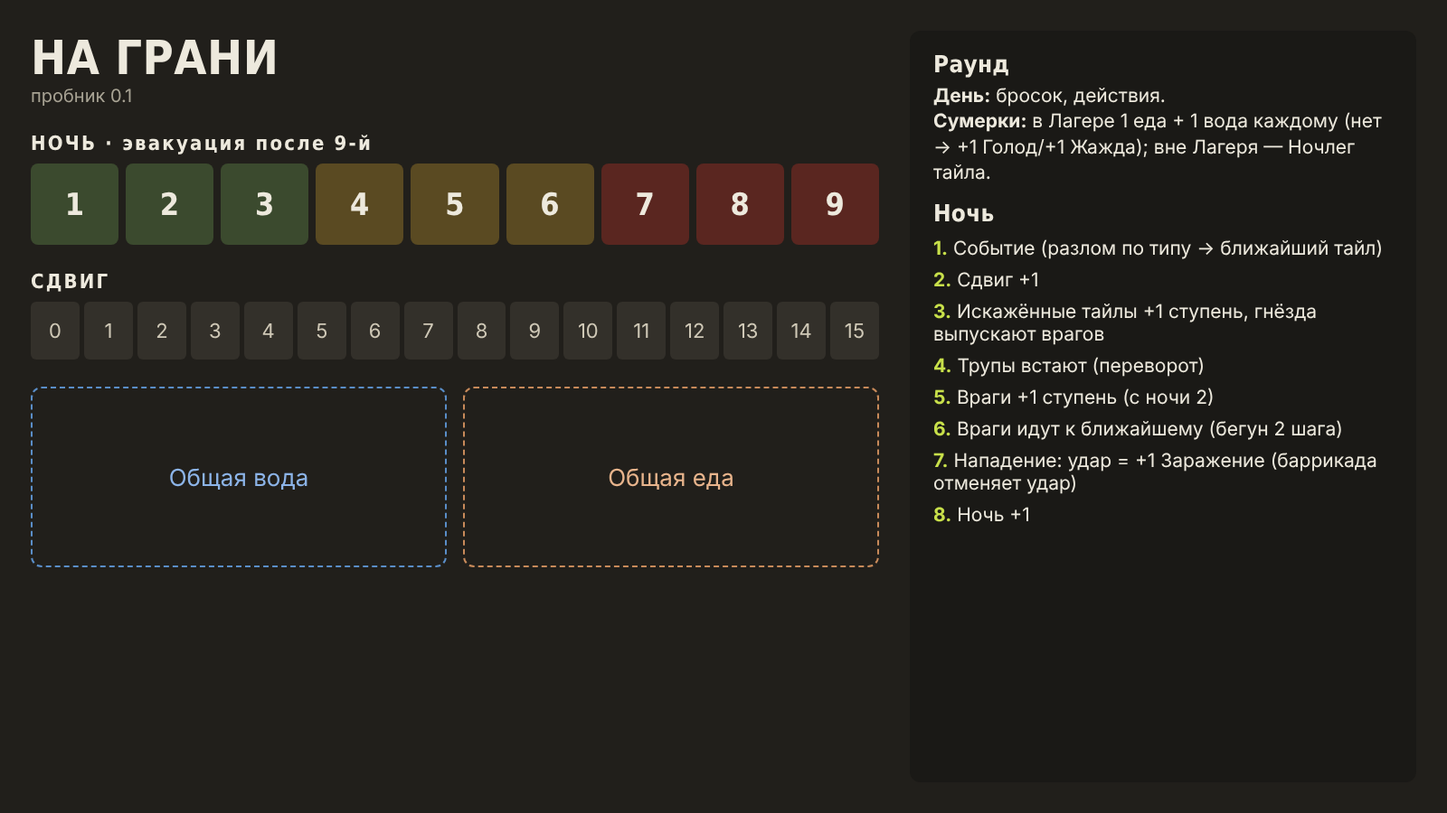
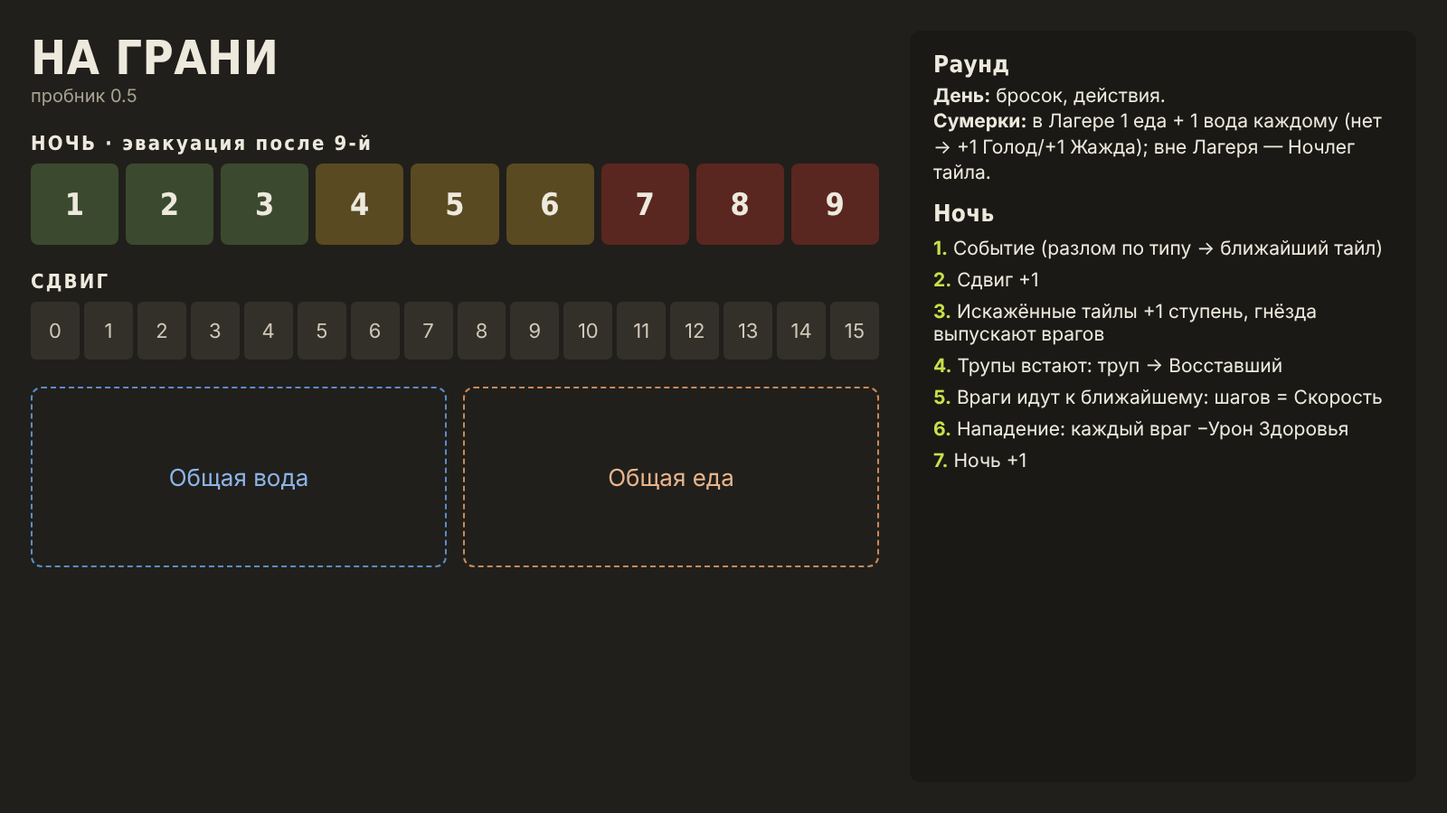
Пробник 0.5: решения 22 октября
Здоровье и Фокус вместо Заражения; три отдельных врага с Защитой, Живучестью, Уроном и Скоростью;
убраны Разведка, Баррикада, Отчаянно и эволюция врагов; «Добить труп»; Отдых на весь День.
Новый планшет с пятью маркерами, общее поле, жетоны, тексты тайлов и событий, правила.

Claude-Session: https://claude.ai/code/session_01XF1YZoP7YAeqvRnxsWetgh

Changed region(s): [[0.625, 0.4356, 0.9688, 0.6533]]

diff --git a/build/data.py b/build/data.py
@@ -1,5 +1,5 @@
 # -*- coding: utf-8 -*-
-# Данные пробника «На грани» v0.1 (совпадают с базами в Notion)
+# Данные пробника «На грани» v0.5 (решения 22 октября: Здоровье и Фокус вместо Заражения)
 
 # (№, название, квартал, открытые края, обыск, лут, запас, угроза, ночлег, эффект ночлега,
 #  искажение, искажённое название, I, II, III)
@@ -7,22 +7,22 @@ TILES = [
     (0, "Лагерь", "Старт", "NESW", None, "—", 0, 0, "Лагерь", "еда и вода из общего запаса",
      None, "Лагерь", None, None, None),
     (1, "Продуктовый магазин", "Окраина", "NES", 3, "Припасы", 3, 1, "Укрытие", "−1 Голод",
-     "Заросли", "Гнилые прилавки", "обыск даёт +1 Заражение", "вход только кубиком 3+",
-     "ночью +1 Заражение всем на соседних тайлах"),
+     "Заросли", "Гнилые прилавки", "обыск: −1 Здоровье (гниль)", "вход только кубиком 3+",
+     "ночью −1 Здоровье всем на соседних тайлах"),
     (2, "Аптека на углу", "Окраина", "NE", 3, "Медицина", 3, 1, "Укрытие", "−1 Жажда",
-     "Туман", "Аптека в тумане", "вход: +1 Заражение", "нельзя разведывать отсюда, обыск 6",
+     "Туман", "Аптека в тумане", "вход: −1 Фокус", "обыск только кубиком 6",
      "становится гнездом: ночью выпускает ходячего"),
     (3, "Панельный дом", "Окраина", "NESW", 2, "Припасы", 4, 1, "Укрытие", "−1 Голод",
      "Эхо", "Дом, где кричат", "ночёвка здесь: +1 Изменение", "ночью +1 Изменение соседям",
      "вход: +1 Изменение"),
     (4, "Заправка", "Окраина", "NESW", 3, "Материалы", 3, 1, "Открытое", "+1 Голод, +1 Жажда",
      "Аномалия", "Мёртвая заправка", "при входе сбрось технику",
-     "каждое действие здесь: перебрось один кубик", "закончил День здесь: +2 Заражение"),
+     "каждое действие здесь: перебрось один кубик", "закончил День здесь: +2 Изменение"),
     (5, "Частные дома", "Окраина", "NSW", 3, "Припасы", 3, 0, "Укрытие", "−1 Жажда (колодец)",
-     "Заросли", "Заросшие дворы", "вход только кубиком 3+", "ночёвка: +1 Заражение",
+     "Заросли", "Заросшие дворы", "вход только кубиком 3+", "ночёвка: −1 Здоровье",
      "каждую ночь заросли переходят на соседний тайл"),
     (6, "Перекрёсток", "Окраина", "NESW", 4, "любой ресурс", 1, 2, "Открытое", "+1 Голод, +1 Жажда",
-     "Туман", "Слепой перекрёсток", "нельзя разведывать отсюда", "вход всегда с засадой",
+     "Туман", "Слепой перекрёсток", "уйти отсюда можно только кубиком 3+", "вход всегда с засадой",
      "туман ползёт на соседний тайл"),
     (7, "Парк", "Окраина", "NESW", 4, "Припасы (вода)", 2, 1, "Открытое", "+1 Голод, +1 Жажда",
      "Гнездо", "Парк-гнездо", "ночью выпускает ходячего", "ночью выпускает бегуна",
@@ -38,7 +38,7 @@ TILES = [
      "ночью выпускает бронированного"),
     (11, "Лаборатория", "Промзона", "SW", 5, "Редкое (мутаген)", 2, 2, "Укрытие", "без восстановления",
      "Аномалия", "Лаборатория-разлом", "техника на тайле ломается",
-     "обыск даёт мутаген наверняка, +2 Заражение", "прыжок на любой аномальный тайл"),
+     "обыск даёт мутаген наверняка, +1 Изменение", "прыжок на любой аномальный тайл"),
     (12, "Трамвайное депо", "Промзона", "NESW", 3, "Техника", 3, 1, "Открытое", "+1 Голод, +1 Жажда",
      "Эхо", "Депо голосов", "ночёвка здесь: +1 Изменение", "ночью враги с соседних тайлов идут сюда",
      "вход: +1 Изменение"),
@@ -46,18 +46,18 @@ TILES = [
      "Гнездо", "Котёл", "ночью выпускает ходячего", "пар: ночёвка Опасная",
      "ночью бегун, соседям +1 Жажда"),
     (14, "Свалка", "Промзона", "NEW", 2, "Материалы", 5, 2, "Открытое", "+1 Голод, +1 Жажда",
-     "Заросли", "Ржавые лозы", "обыск: +1 Заражение", "вход только кубиком 3+",
+     "Заросли", "Ржавые лозы", "обыск: −1 Здоровье", "вход только кубиком 3+",
      "заросли переходят на соседний тайл"),
     (15, "Водонапорная башня", "Промзона", "S", 4, "Припасы (вода)", 2, 0, "Укрытие", "−2 Жажда",
-     "Заросли", "Гнилая вода", "вода отсюда: +1 Заражение", "вход только кубиком 3+",
+     "Заросли", "Гнилая вода", "вода отсюда: −1 Здоровье", "вход только кубиком 3+",
      "вода больше не добывается"),
-    (16, "Подстанция", "Промзона", "NES", 4, "Техника ×2", 3, 1, "Опасное", "+1 Голод, +1 Жажда, +1 Заражение",
-     "Аномалия", "Узел", "техника на тайле ломается", "вход: +1 Заражение",
+    (16, "Подстанция", "Промзона", "NES", 4, "Техника ×2", 3, 1, "Опасное", "+1 Голод, +1 Жажда, −1 Здоровье",
+     "Аномалия", "Узел", "техника на тайле ломается", "вход: −1 Здоровье",
      "все аномальные тайлы связаны через этот"),
     (17, "Химзавод", "Промзона", "EW", 5, "Медицина ×2", 3, 2, "Опасное",
-     "+1 Голод, +1 Жажда, +1 Заражение",
-     "Туман", "Кислотный туман", "вход: +1 Заражение", "враги здесь бьют и соседние тайлы",
-     "туман ползёт, +1 Заражение"),
+     "+1 Голод, +1 Жажда, −1 Здоровье",
+     "Туман", "Кислотный туман", "вход: −1 Здоровье", "враги здесь бьют и соседние тайлы",
+     "туман ползёт, соседям −1 Здоровье"),
     (18, "КПП завода", "Промзона", "NESW", 3, "Техника", 2, 1, "Укрытие", "без восстановления",
      "Эхо", "Мёртвый эфир", "раз за День: +1 Изменение, посмотри верх колоды событий",
      "ночёвка: +1 Изменение", "+1 Изменение всем в радиусе 1"),
@@ -81,13 +81,13 @@ EVENTS = [
     (10, "Раскол земли", "Средние", ["Аномалия"], "разлом; Сдвиг +1", "—", False),
     (11, "Чужие следы", "Средние", [], "с каждого Укрытия на карте снимается 1 запас", "—", False),
     (12, "Голодный город", "Средние", [], "враги в 2 тайлах от Лагеря делают шаг к Лагерю", "все +1 Голод", False),
-    (13, "Споры в воздухе", "Средние", ["Заросли"], "разлом", "все на искажённых тайлах +2 Заражение", False),
+    (13, "Споры в воздухе", "Средние", ["Заросли"], "разлом", "все на искажённых тайлах +1 Изменение", False),
     (14, "Раненый незнакомец", "Средние", [], "—",
      "взять в Лагерь (−2 еды, следующей ночью вытяни «Последствие») или оставить (+1 Изменение всем)", True),
     (15, "Гнёзда просыпаются", "Поздние", ["Гнездо"], "разлом; все Гнёзда сразу выпускают по врагу", "—", False),
     (16, "Долгая ночь", "Поздние", [], "вытяни ещё одну карту события", "все +1 Голод", False),
     (17, "Эхо", "Поздние", ["Эхо"], "разлом", "все +1 Изменение", False),
-    (18, "Волна", "Поздние", [], "все враги поднимаются на ступень ещё раз", "—", False),
+    (18, "Волна", "Поздние", [], "на каждый тайл, где уже есть враг, +1 ходячий", "—", False),
     (19, "Тишина перед бурей", "Поздние", [], "ничего", "следующей ночью вытяни две карты", False),
     (20, "Ночь без сна", "Поздние", [], "—",
      "все +1 Голод; кто ночует один, +2 Изменение", False),
@@ -95,7 +95,7 @@ EVENTS = [
     (22, "Он был помощником", "Последствия", [], "—",
      "незнакомец остаётся: раз за День игрок в Лагере может взять у него кубик со значением 4", False),
     (23, "Он был вором", "Последствия", [], "—", "ушёл ночью: общий запас −2 еды и −2 воды", False),
-    (24, "Он был заражён", "Последствия", [], "—", "все в Лагере +2 Заражение; незнакомец уходит", False),
+    (24, "Он был заражён", "Последствия", [], "—", "все в Лагере −2 Здоровье; незнакомец уходит", False),
     (25, "Он был мутантом", "Последствия", [], "встаёт бегуном прямо в Лагере и нападает первым", "—", False),
 ]
 
@@ -105,9 +105,9 @@ SRYV = [
     ("Привязанность", "человек", "Тайно запиши одного выжившего. Он должен спастись, даже если ты погибнешь."),
     ("Скопидом", "человек", "К эвакуации у тебя лично должно быть больше еды, чем в общем запасе."),
     ("Искупление", "человек", "Погибнуть ночью на одном тайле с другим выжившим, приняв удары на себя."),
-    ("Голод", "мутант", "Разделать хотя бы один труп выжившего. Спасаться не обязательно."),
+    ("Голод", "мутант", "Съесть труп выжившего: «Добить труп» на его тайле. Спасаться не обязательно."),
     ("Ассимиляция", "мутант", "Использовать мутаген 3 раза за игру (считая уже использованный)."),
-    ("Носитель", "мутант", "Спастись нераскрытым. Если удалось — всем спасшимся +3 Заражение в эпилоге."),
+    ("Носитель", "мутант", "Спастись нераскрытым. Если удалось — всем спасшимся +3 Изменение в эпилоге."),
     ("Зов разлома", "мутант", "В конце 9-й ночи стоять на искажённом тайле ступени III."),
     ("Мост", "мутант", "Открыто показать эту карту и спастись вместе с хотя бы одним выжившим."),
 ]

diff --git a/build/render.py b/build/render.py
@@ -68,7 +68,7 @@ def tile_front(t):
     if n == 0:
         body = (f"<div class='h' style='font-size:56px;text-align:center;margin-top:150px'>ЛАГЕРЬ</div>"
                 f"<div style='text-align:center;font-size:22px;margin-top:14px' class='muted'>спортзал школы</div>"
-                f"<div style='text-align:center;font-size:20px;margin-top:60px;padding:0 70px;line-height:1.35'>Сумерки: еда и вода<br>из общего запаса.<br>Баррикады отменяют удары.</div>")
+                f"<div style='text-align:center;font-size:20px;margin-top:60px;padding:0 70px;line-height:1.35'>Сумерки: еда и вода<br>из общего запаса.<br>После 9-й ночи —<br>эвакуация отсюда.</div>")
     else:
         dcol = DISTORTION_COLOR[dist]
         body = f"""
@@ -174,36 +174,40 @@ def token(label, sub, bg, fg="#EDE9DD", ring="#000"):
     return f"""<div style='position:absolute;inset:0;background:{bg};border-radius:28px;border:8px solid {ring}'></div>
       <div style='position:absolute;inset:0;display:flex;flex-direction:column;align-items:center;justify-content:center;color:{fg}'>
       <div class='h' style='font-size:{34 if len(label) < 10 else 26}px;text-align:center'>{e(label)}</div>
-      <div style='font-size:22px;margin-top:6px;opacity:.85'>{e(sub)}</div></div>"""
-TOK_FRONT = [token("Ходячий", "бой 2+ · удар 1", "#5A6B4A"), token("Бегун", "бой 4+ · удар 1 · 2 шага", "#8A6A2E"),
-             token("Броня", "бой 6 · удар 2", "#7A2E24"), token("Труп", "встанет ночью", "#4A4640", ring="#2a2826")]
-TOK_BACK = [token("Бегун", "бой 4+ · удар 1 · 2 шага", "#8A6A2E"), token("Броня", "бой 6 · удар 2", "#7A2E24"),
-            token("Броня", "бой 6 · удар 2", "#7A2E24"), token("Восставший", "бой 2+ · удар 1", "#3C2A44", ring="#A88BE0")]
+      <div style='font-size:24px;margin-top:8px;opacity:.9;white-space:pre-line;text-align:center;line-height:1.3'>{e(sub)}</div></div>"""
+TOK_FRONT = [token("Ходячий", "Защ 2 · Жив 1\nУрон 1 · Скор 1", "#5A6B4A"),
+             token("Бегун", "Защ 4 · Жив 1\nУрон 1 · Скор 2", "#8A6A2E"),
+             token("Бронированный", "Защ 6 · Жив 3\nУрон 2 · Скор 1", "#7A2E24"),
+             token("Восставший", "Защ 2 · Жив 1\nУрон 1 · Скор 1", "#3C2A44", ring="#A88BE0")]
+TOK_BACK = [token("Труп", "ночью встанет", "#4A4640", ring="#2a2826") for _ in range(4)]
 
 # ---------- планшеты ----------
 def player_board():
-    W, H = 1600, 590
-    scales = ["Голод", "Жажда", "Заражение"]
-    over = {"Голод": "в след. День на 2 кубика меньше", "Жажда": "пропускаешь след. День",
-            "Заражение": "шрам, шкала падает до 2"}
+    W, H = 1600, 660
+    scales = ["Голод", "Жажда", "Здоровье", "Фокус"]
+    over = {"Голод": "6-е: в след. День на 2 кубика меньше", "Жажда": "6-е: пропускаешь след. День",
+            "Здоровье": "0: шрам — закрой ячейку кубика, Здоровье = 3",
+            "Фокус": "0: Бой и Крафт с −1 к кубику"}
+    start = {"Голод": 0, "Жажда": 0, "Здоровье": 5, "Фокус": 5}
     rows = ""
     for s in scales:
-        cells = "".join(f"<div style='width:62px;height:62px;border:2px solid #5C584D;border-radius:8px;display:flex;align-items:center;justify-content:center;color:#6C6759;font-size:22px'>{i}</div>" for i in range(6))
+        cells = "".join(f"<div style='width:62px;height:62px;border:2px solid {'#C8E04A' if i == start[s] else '#5C584D'};border-radius:8px;display:flex;align-items:center;justify-content:center;color:#6C6759;font-size:22px'>{i}</div>" for i in range(6))
         rows += (f"<div style='display:flex;align-items:center;gap:8px;margin-bottom:10px'>"
                  f"<div class='h' style='width:170px;font-size:26px'>{s}</div>{cells}"
-                 f"<div style='margin-left:12px;font-size:17px;line-height:1.2;width:230px' class='muted'>6-е: {over[s]}</div></div>")
+                 f"<div style='margin-left:12px;font-size:17px;line-height:1.2;width:240px' class='muted'>{over[s]}</div></div>")
     change = "".join(f"<div style='flex:1;height:58px;border-radius:6px;background:{'#33302A' if i<4 else ('#4A3426' if i<8 else '#6B2E22')};display:flex;align-items:center;justify-content:center;font-size:20px;color:#CFC8B6'>{i}</div>" for i in range(11))
     dice = "".join(f"<div style='width:96px;height:96px;border:3px solid #5C584D;border-radius:12px;display:flex;align-items:center;justify-content:center;font-size:26px;color:#6C6759'>{i}</div>" for i in range(1, 7))
-    acts = [("Переход", "любой"), ("Рывок, 2 тайла (+1 Жажда)", "5+"), ("Разведка", "5+"), ("Обыск", "≥ порога"),
-            ("Бой", "2+ / 4+ / 6"), ("Разделать труп", "любой"), ("Баррикада", "любой"),
-            ("Лечение + медикамент", "4+"), ("Отдых: −1 Изменение", "2 кубика"),
-            ("Помочь", "любой"), ("Отчаянно", "+2 куб., +1 Изм."), ("Усилие: сложить 2 кубика", "+1 Голод")]
+    acts = [("Переход: шаг или новый тайл", "любой"), ("Рывок, 2 тайла (+1 Жажда)", "5+"), ("Обыск", "≥ порога"),
+            ("Бой: 1 попадание, −1 Фокус", "≥ Защиты"), ("Добить труп", "любой"),
+            ("Лечение + медикамент:", "4+"), ("   +2 Здоровье или −1 Изменение", ""),
+            ("Отдых: весь День, Фокус = 5", "все"), ("Помочь на своём тайле", "любой"),
+            ("Усилие: сложить 2 кубика", "+1 Голод"), ("Еда: −2 Голод, +1 Фокус", "—"), ("Вода: −2 Жажда", "—")]
     acts_html = "".join(f"<div style='display:flex;justify-content:space-between;font-size:18px;padding:3px 0;border-bottom:1px solid #3A372F'><span>{a}</span><span class='muted'>{c}</span></div>" for a, c in acts)
     body = f"""<div style='width:{W}px;height:{H}px;background:#26241F;padding:34px;display:grid;grid-template-columns:1fr 430px;gap:34px'>
       <div>
         <div class='h' style='font-size:22px;letter-spacing:.1em' class='muted'>КУБИКИ ДЕЙСТВИЙ <span style='font-weight:400;font-size:17px;color:#A7A293'>· шрам закрывает ячейку навсегда</span></div>
         <div style='display:flex;gap:14px;margin:12px 0 26px'>{dice}</div>
-        <div class='h' style='font-size:22px;letter-spacing:.1em;margin-bottom:12px'>ШКАЛЫ <span style='font-weight:400;font-size:17px;color:#A7A293'>· 0–5 без эффекта, плохо только при переполнении</span></div>
+        <div class='h' style='font-size:22px;letter-spacing:.1em;margin-bottom:12px'>ШКАЛЫ <span style='font-weight:400;font-size:17px;color:#A7A293'>· Голод и Жажда растут от 0, Здоровье и Фокус тратятся с 5</span></div>
         {rows}
         <div class='h' style='font-size:22px;letter-spacing:.1em;margin:18px 0 10px'>ИЗМЕНЕНИЕ <span style='font-weight:400;font-size:17px;color:#A7A293'>· переполнение → тайно тяни карту Срыва</span></div>
         <div style='display:flex;gap:6px'>{change}</div>
@@ -219,12 +223,12 @@ def shared_board():
     nights = "".join(f"<div style='flex:1;height:90px;border-radius:8px;background:{'#3B4A2E' if i<=3 else ('#5A4A22' if i<=6 else '#5A2620')};display:flex;align-items:center;justify-content:center;font-size:34px' class='h'>{i}</div>" for i in range(1, 10))
     shift = "".join(f"<div style='flex:1;height:64px;border-radius:6px;background:#33302A;display:flex;align-items:center;justify-content:center;font-size:22px;color:#CFC8B6'>{i}</div>" for i in range(16))
     steps = ["Событие (разлом по типу → ближайший тайл)", "Сдвиг +1", "Искажённые тайлы +1 ступень, гнёзда выпускают врагов",
-             "Трупы встают (переворот)", "Враги +1 ступень (с ночи 2)", "Враги идут к ближайшему (бегун 2 шага)",
-             "Нападение: удар = +1 Заражение (баррикада отменяет удар)", "Ночь +1"]
+             "Трупы встают: труп → Восставший", "Враги идут к ближайшему: шагов = Скорость",
+             "Нападение: каждый враг −Урон Здоровья", "Ночь +1"]
     st = "".join(f"<div style='font-size:21px;padding:5px 0'><b style='color:#C8E04A'>{i}.</b> {s}</div>" for i, s in enumerate(steps, 1))
     body = f"""<div style='width:{W}px;height:{H}px;background:#211F1B;padding:34px;display:grid;grid-template-columns:1fr 560px;gap:34px'>
       <div>
-        <div class='h' style='font-size:52px'>НА ГРАНИ</div><div class='muted' style='font-size:20px'>пробник 0.1</div>
+        <div class='h' style='font-size:52px'>НА ГРАНИ</div><div class='muted' style='font-size:20px'>пробник 0.5</div>
         <div class='h' style='font-size:22px;letter-spacing:.1em;margin:28px 0 10px'>НОЧЬ · эвакуация после 9-й</div>
         <div style='display:flex;gap:8px'>{nights}</div>
         <div class='h' style='font-size:22px;letter-spacing:.1em;margin:28px 0 10px'>СДВИГ</div>

diff --git a/build/build_tts.py b/build/build_tts.py
@@ -181,7 +181,7 @@ objects.append(deck(3, sr_cd, sr_cards, tf(21, 1.2, 6.5, rz=180, s=1.0), "Сры
 def grid_pos(k):
     return -31 + (k % 3) * 2.6, 13 - (k // 3) * 2.8
 
-TOK = [("Ходячий (оборот: Бегун)", 0), ("Бегун (оборот: Броня)", 1), ("Броня", 2), ("Труп (оборот: Восставший)", 3)]
+TOK = [("Ходячий (оборот: Труп)", 0), ("Бегун (оборот: Труп)", 1), ("Бронированный (оборот: Труп)", 2), ("Восставший (оборот: Труп)", 3)]
 k = 0
 for nick, i in TOK:
     inner = custom_tile(kf_names[i], kb_names[i], tf(s=0.8), nick.split(" (")[0], nick, thick=0.2)
@@ -190,7 +190,7 @@ for nick, i in TOK:
 
 RES = [("Еда", (0.93, 0.55, 0.2)), ("Вода", (0.25, 0.55, 0.95)), ("Медикамент", (0.95, 0.95, 0.95)),
        ("Материал", (0.5, 0.33, 0.2)), ("Техника", (0.95, 0.85, 0.2)), ("Мутаген", (0.6, 0.9, 0.2)),
-       ("Баррикада", (0.3, 0.2, 0.12)), ("Маркер ступени / Сдвига / Ночи", (0.08, 0.08, 0.08))]
+       ("Маркер ступени / Сдвига / Ночи", (0.08, 0.08, 0.08))]
 for nick, col in RES:
     x, z = grid_pos(k); k += 1
     objects.append(infinite_bag(nick, block(nick, col), x, z, color=col))
@@ -232,13 +232,15 @@ local BOARD_JSON = [==[__BOARD__]==]
 local BOARD_Z = -14
 local BOARD_GAP = 19
 -- Смещения от центра планшета (планшет 17.45 x 6.43, повёрнут на 180): +x вправо, +z к верху планшета
-local DICE_OFF = {{-4.5, 4.6}, {-3.5, 4.6}, {-2.5, 4.6}, {-1.5, 4.6}, {-0.5, 4.6}, {0.5, 4.6}}
-local MARK_OFF = {{-6.07, 0.37}, {-6.07, -0.41}, {-6.07, -1.2}, {-7.58, -2.43}}
+local DICE_OFF = {{-4.5, 5.0}, {-3.5, 5.0}, {-2.5, 5.0}, {-1.5, 5.0}, {-0.5, 5.0}, {0.5, 5.0}}
+-- Голод 0, Жажда 0, Здоровье 5, Фокус 5, Изменение 0
+local MARK_OFF = {{-6.07, 0.75}, {-6.07, -0.03}, {-2.26, -0.82}, {-2.26, -1.6}, {-7.85, -2.84}}
 local COLORS = {"White", "Red", "Blue", "Green", "Yellow"}
 local MARKERS = {
   {name = "Голод",     color = {0.93, 0.55, 0.2}},
   {name = "Жажда",     color = {0.25, 0.55, 0.95}},
-  {name = "Заражение", color = {0.55, 0.85, 0.2}},
+  {name = "Здоровье",  color = {0.85, 0.2, 0.2}},
+  {name = "Фокус",     color = {0.7, 0.55, 0.95}},
   {name = "Изменение", color = {0.1, 0.1, 0.1}},
 }
 local started = false
@@ -411,7 +413,7 @@ XML_UI = f'''<Panel id="setup" width="560" height="250" rectAlignment="MiddleCen
 </Panel>'''
 
 save = {
-    "SaveName": "На грани — пробник 0.4", "GameMode": "На грани", "Gravity": 0.5, "PlayArea": 1.0,
+    "SaveName": "На грани — пробник 0.5", "GameMode": "На грани", "Gravity": 0.5, "PlayArea": 1.0,
     "Date": "", "Table": "Table_None", "TableURL": "", "Sky": "",
     "Note": rules, "Rules": "", "XmlUI": XML_UI,
     "LuaScript": GLOBAL_LUA, "LuaScriptState": "",

diff --git a/Правила_пробника.md b/Правила_пробника.md
@@ -1,6 +1,8 @@
-# На грани — правила пробника 0.3
+# На грани — правила пробника 0.5
 
-Пробные правила для первых партий. Где правила молчат — решайте за столом и записывайте, что решили. Временные решения помечены [ЗАГЛУШКА].
+Пробные правила для первых партий. Где правила молчат, решайте за столом и записывайте, что решили. Временные решения помечены [ЗАГЛУШКА].
+
+Что изменилось с 0.4: вместо Заражения теперь две шкалы — Здоровье и Фокус. Враги стали тремя отдельными монстрами со своими параметрами и больше не превращаются друг в друга. Убраны Разведка, Баррикада и Отчаянно. Разделать труп и Разбить объединены в «Добить труп». Отдых занимает весь День.
 
 ## 1. О чём игра
 Вы — выжившие после Сдвига: мир рвётся разломами, мёртвые встают, город мутирует. Нужно продержаться **9 ночей**. После 9-й ночи прилетает эвакуация: спасаются те, кто в этот момент стоит в Лагере.
@@ -9,8 +11,8 @@
 ## 2. Подготовка (делает скрипт)
 После запуска появится окно «Сколько выживших?». Нажми число игроков — и скрипт:
 - выложит 4 случайных тайла вокруг Лагеря, повернув их так, чтобы к Лагерю вёл открытый край;
-- оставит в каждой колоде ночей по 3 случайные карты: «Ночи 1–3», «Ночи 4–6», «Ночи 7–9» (лишние уходят вправо, в игре не участвуют);
-- выдаст каждому игроку планшет, 6 кубиков его цвета над планшетом и 4 маркера на нулевых клетках шкал: Голод, Жажда, Заражение, Изменение;
+- оставит в каждой колоде ночей по 3 случайные карты: «Ночи 1–3», «Ночи 4–6», «Ночи 7–9»;
+- выдаст каждому планшет, 6 кубиков его цвета над планшетом и 5 маркеров: Голод и Жажда на 0, Здоровье и Фокус на 5, Изменение на 0;
 - положит в общий запас по 2 еды и 2 воды на каждого выжившего;
 - поставит фишки выживших в Лагерь.
 
@@ -26,29 +28,29 @@
 ### 3.1 День: кубики
 1. Брось все свои кубики. Кубиков 6, минус ячейки, закрытые шрамами.
 2. Трать кубики на действия по одному. Значение кубика важно: простые действия берут любой кубик, сложные — высокий.
-3. Потраченный кубик отложи на планшет, он больше не используется этим Днём.
-4. **Единицы шумят:** каждая единица, которую ты не потратил к концу своего Дня, приводит ходячего на твой тайл. Единицу удобно потратить на Переход.
+3. Потраченный кубик отложи, он больше не используется этим Днём.
+4. **Единицы шумят:** каждая единица, которую ты не потратил к концу своего Дня, приводит ходячего на твой тайл.
 
-**Усилие [пробное правило]:** можно сложить значения ровно двух кубиков в одно действие (например, 2 + 3 = 5 для Разведки). За это +1 Голод.
+**Усилие:** можно сложить значения ровно двух кубиков в одно действие (например, 2 + 3 = 5 для Рывка). За это +1 Голод.
 
 ### 3.2 Что можно делать Днём
 
 | Действие | Кубик | Что происходит |
 |---|---|---|
-| Переход | любой | Шагни на соседний тайл через открытый край. Через заштрихованный край пройти нельзя. |
+| Переход | любой | Шагни на соседний тайл через открытый край или открой новый тайл (см. ниже). Фокус не тратится. |
 | Рывок | 5+ | Шагни на 2 тайла. +1 Жажда. |
-| Открыть тайл | любой | Шаг за открытый край туда, где тайла ещё нет (см. ниже). |
-| Разведка | 5+ | Посмотри тайл за открытым краем, не заходя туда (см. ниже). |
 | Обыск | ≥ порога тайла | Возьми 1 ресурс по типу лута, нажми «−» на счётчике запаса тайла. Запас 0 — обыскивать нечего. |
-| Бой | ≥ порога врага | Убей врага на своём тайле: ходячий 2+, бегун 4+, бронированный 6. Он становится трупом. Первый бой за День: +1 Голод. |
-| Разделать труп | любой | Убери труп насовсем, иначе ночью он встанет. |
-| Баррикада | любой | Только в Лагере. Положи жетон баррикады: ночью он отменяет 1 удар. Без материала баррикада держится одну ночь, с материалом — пока её не пробьют. |
-| Лечение | 4+ и медикамент | −2 Заражение. Можно лечить себя или другого на том же тайле. |
-| Отдых | 2 любых | −1 Изменение. |
-| Помочь | любой | Отдай кубик игроку на том же тайле. |
-| Отчаянно | — | Раз за День: возьми и брось 2 дополнительных кубика. +1 Изменение. |
+| Бой | ≥ Защиты врага | Потрать 1 Фокус: одно попадание по врагу на своём тайле. Попаданий столько, сколько Живучесть, — враг убит, переверни жетон на сторону «Труп». |
+| Добить труп | любой | Убери жетон трупа совсем, иначе ночью он встанет. |
+| Лечение | 4+ и медикамент | +2 Здоровье или −1 Изменение. Можно лечить себя или другого на том же тайле. |
+| Отдых | весь День | Не бросаешь кубики и ничего больше не делаешь. Фокус восстанавливается до 5. [ЗАГЛУШКА: возможно, ещё +1 Здоровье] |
+| Помочь | любой | Отдай кубик игроку на своём тайле. |
 
-**Есть и пить можно в любой момент:** еда −2 Голод, вода −2 Жажда.
+**Бой без Фокуса:** можно, но значение кубика считается на 1 меньше.
+**Попадания** по врагу с Живучестью больше 1 отмечай любым маркером на жетоне. В конце Дня они сбрасываются. [ЗАГЛУШКА]
+**Крафт** тоже будет стоить кубик и 1 Фокус, но в пробнике его пока нет.
+
+**Есть и пить можно в любой момент:** еда −2 Голод и +1 Фокус, вода −2 Жажда.
 
 **Тяжёлая местность:** зайти на искажённый тайл или в заросли — +1 Жажда.
 
@@ -57,48 +59,58 @@
 2. Тяни случайный тайл из мешка «Тайлы города», клади обычной (светлой) стороной вверх.
 3. Поверни его так, чтобы к тебе смотрел открытый край. Счётчик запаса на тайле уже выставлен.
 4. Зайди на тайл и поставь на него ходячих по числу «Угроза».
-5. **Засада:** каждый враг на только что открытом тайле сразу бьёт тебя (удар = +1 Заражение).
+5. **Засада:** каждый враг на только что открытом тайле сразу бьёт тебя: −Урон Здоровья.
 
-**Разведка** (кубик 5+) делает то же самое, но без захода: ты кладёшь тайл и врагов, засады нет. Можешь вместо этого вернуть тайл в мешок, если он тебе не нравится.
+### 3.4 Враги
 
-### 3.4 Лут
+| Враг | Защита | Живучесть | Урон | Скорость |
+|---|---|---|---|---|
+| Ходячий | 2 | 1 | 1 | 1 |
+| Бегун | 4 | 1 | 1 | 2 |
+| Бронированный | 6 | 3 | 2 | 1 |
+| Восставший | 2 | 1 | 1 | 1 |
+
+Защита — какой кубик нужен для попадания. Живучесть — сколько попаданий нужно, чтобы убить. Урон — сколько Здоровья снимает удар. Скорость — сколько тайлов враг проходит за ночь.
+Враги пока не эволюционируют, это правило ещё придумываем.
+
+### 3.5 Лут
 - **Припасы:** еда или вода на выбор. «Припасы (вода)» — только вода.
 - **Медицина:** медикамент.
-- **Материалы:** материал (для баррикад).
-- **Техника:** техника. [ЗАГЛУШКА: пока ни на что не тратится, понадобится для финалов]
-- **Редкое / мутаген:** мутаген. Использовать в любой момент: +2 кубика на этот День, +2 Заражение. [ЗАГЛУШКА мутаций]
+- **Материалы:** материал. [ЗАГЛУШКА: понадобится для крафта]
+- **Техника:** техника. [ЗАГЛУШКА: понадобится для финалов и крафта]
+- **Редкое / мутаген:** мутаген. Использовать в любой момент: +2 кубика на этот День, +1 Изменение. [ЗАГЛУШКА: потом мутаген будет давать карту мутации]
 - «×2» — два ресурса за обыск, «любой ресурс» — на выбор.
 
 Найденное держи у себя (рядом с планшетом) или положи в Лагере в общий запас.
 
-### 3.5 Сумерки
+### 3.6 Сумерки
 - **В Лагере:** каждый ест 1 еду и пьёт 1 воду из общего или своего запаса. Не поел — +1 Голод, не попил — +1 Жажда. Не хватает на всех — решайте вслух, кому.
 - **Вне Лагеря:** смотри Ночлег своего тайла.
   - Укрытие: указанное на тайле восстановление, ночью на тебя не нападают.
   - Открытое: +1 Голод, +1 Жажда.
   - Опасное (в том числе любой искажённый тайл): +1 Голод, +1 Жажда и эффект тайла.
 
-### 3.6 Ночь (по порядку)
+### 3.7 Ночь (по порядку)
 1. **Событие.** Открой верхнюю карту из текущей колоды ночей и выполни её.
-   «Разлом: тип» — переверни ближайший к Лагерю тайл с этим типом искажения (тип подписан внизу тайла), который ещё не перевёрнут. Поставь на него чёрный маркер на ступень I и нажми «−» на счётчике запаса (на искажённой стороне запас меньше на 1). Подходящего тайла нет — Сдвиг +1.
+   «Разлом: тип» — переверни ближайший к Лагерю тайл с этим типом искажения (тип подписан внизу тайла), который ещё не перевёрнут. Поставь на него чёрный маркер на ступень I и нажми «−» на счётчике запаса. Подходящего тайла нет — Сдвиг +1.
 2. **Сдвиг +1.**
 3. **Искажённые тайлы растут.** Маркер на каждом перевёрнутом тайле +1 ступень (максимум III). Ступени накапливаются: на II работают и I, и II. Если ступень выпускает врага — поставь его.
-4. **Трупы встают.** Переверни все трупы на «Восставших». Восставший умирает от любого кубика 2+ и снова становится трупом.
-5. **Враги растут** (начиная со 2-й ночи). Ходячий переворачивается в бегуна, бегуна замени бронированным.
-6. **Враги идут.** Каждый враг делает шаг к ближайшему выжившему через открытые края. Бегун делает 2 шага.
-7. **Нападение.** Каждый враг на тайле с выжившим бьёт: ходячий, бегун и восставший — 1 удар, бронированный — 2 удара. **Удар = +1 Заражение** (укус). Удары распределяют сами выжившие на этом тайле. В Лагере каждая баррикада отменяет 1 удар. В Укрытии вне Лагеря нападения нет.
-8. Маркер ночи +1. После 9-й ночи — эвакуация, конец игры.
+4. **Трупы встают.** Каждый труп замени Восставшим из мешка.
+5. **Враги идут.** Каждый враг идёт к ближайшему выжившему через открытые края: столько шагов, сколько его Скорость.
+6. **Нападение.** Каждый враг на тайле с выжившим бьёт: −Урон Здоровья. Удары распределяют сами выжившие на этом тайле. В Укрытии вне Лагеря нападения нет.
+7. Маркер ночи +1. После 9-й ночи — эвакуация, конец игры.
 
 ## 4. Шкалы
-На планшете три шкалы: **Голод, Жажда, Заражение**. Каждая от 0 до 5, и пока она не полна, ничего не происходит. Если шкала на 5 и нужно добавить ещё — **переполнение**. Шкала остаётся на 5, и каждое следующее деление вызывает переполнение снова.
+| Шкала | Как меняется | Что плохого |
+|---|---|---|
+| Голод | растёт от 0 до 5 | 6-е деление: в следующий День бросаешь на 2 кубика меньше |
+| Жажда | растёт от 0 до 5 | 6-е деление: теряешь сознание — следующий День пропускаешь, ночью лежишь без защиты |
+| Здоровье | начинается с 5, удары снимают | на 0: шрам — закрой одну ячейку кубика навсегда, Здоровье становится 3 [ЗАГЛУШКА: числа] |
+| Фокус | начинается с 5, тратится на Бой и Крафт | на 0: Бой и Крафт с −1 к кубику. Восстанавливается Отдыхом (до 5) и едой (+1) |
 
-| Шкала | Переполнение |
-|---|---|
-| Голод | в следующий День бросаешь на 2 кубика меньше |
-| Жажда | теряешь сознание: следующий День пропускаешь, ночью лежишь на тайле без защиты |
-| Заражение | шрам: закрой одну ячейку кубика навсегда; шкала падает до 2 |
+Голод и Жажда работают через переполнение: пока шкала не полна, ничего не происходит. Если она на 5 и нужно добавить ещё, срабатывает эффект, а шкала остаётся на 5.
 
-**Изменение** (0–10) растёт от Отчаянно, событий и эффектов тайлов. Если оно на 10 и нужно добавить ещё — тайно возьми карту Срыва себе в руку. Теперь у тебя новая цель. Карту никому не показывай (кроме карты «Мост»).
+**Изменение** (0–10) растёт от событий, искажённых тайлов, мутагена и разломов. Отдыхом оно не снимается, только Лечением. Если оно на 10 и нужно добавить ещё — тайно возьми карту Срыва. Теперь у тебя новая цель. Карту никому не показывай (кроме карты «Мост»).
 
 ## 5. Смерть и конец игры
 - Если закрыты все 6 ячеек кубиков — выживший погибает. [ЗАГЛУШКА: может ли игрок вернуться новым выжившим]
@@ -106,8 +118,8 @@
 - Обычный выживший побеждает, если спасся. Игрок с картой Срыва побеждает, только если выполнил цель на карте.
 
 ## 6. Что записывать на тесте
+- Хватает ли Фокуса на бои или он кончается к середине Дня.
+- Как часто приходится отдыхать и не скучно ли пропускать День.
+- Сколько ударов выдерживает выживший и не слишком ли быстро он ловит шрамы.
 - На какой ночи стало по-настоящему страшно.
-- Какие шкалы переполнялись, а какие не сдвинулись ни разу.
-- Как часто пользовались Усилием и не стало ли слишком легко.
-- Сколько минут занимает одна Ночь.
 - Какие тайлы и события оказались скучными.
